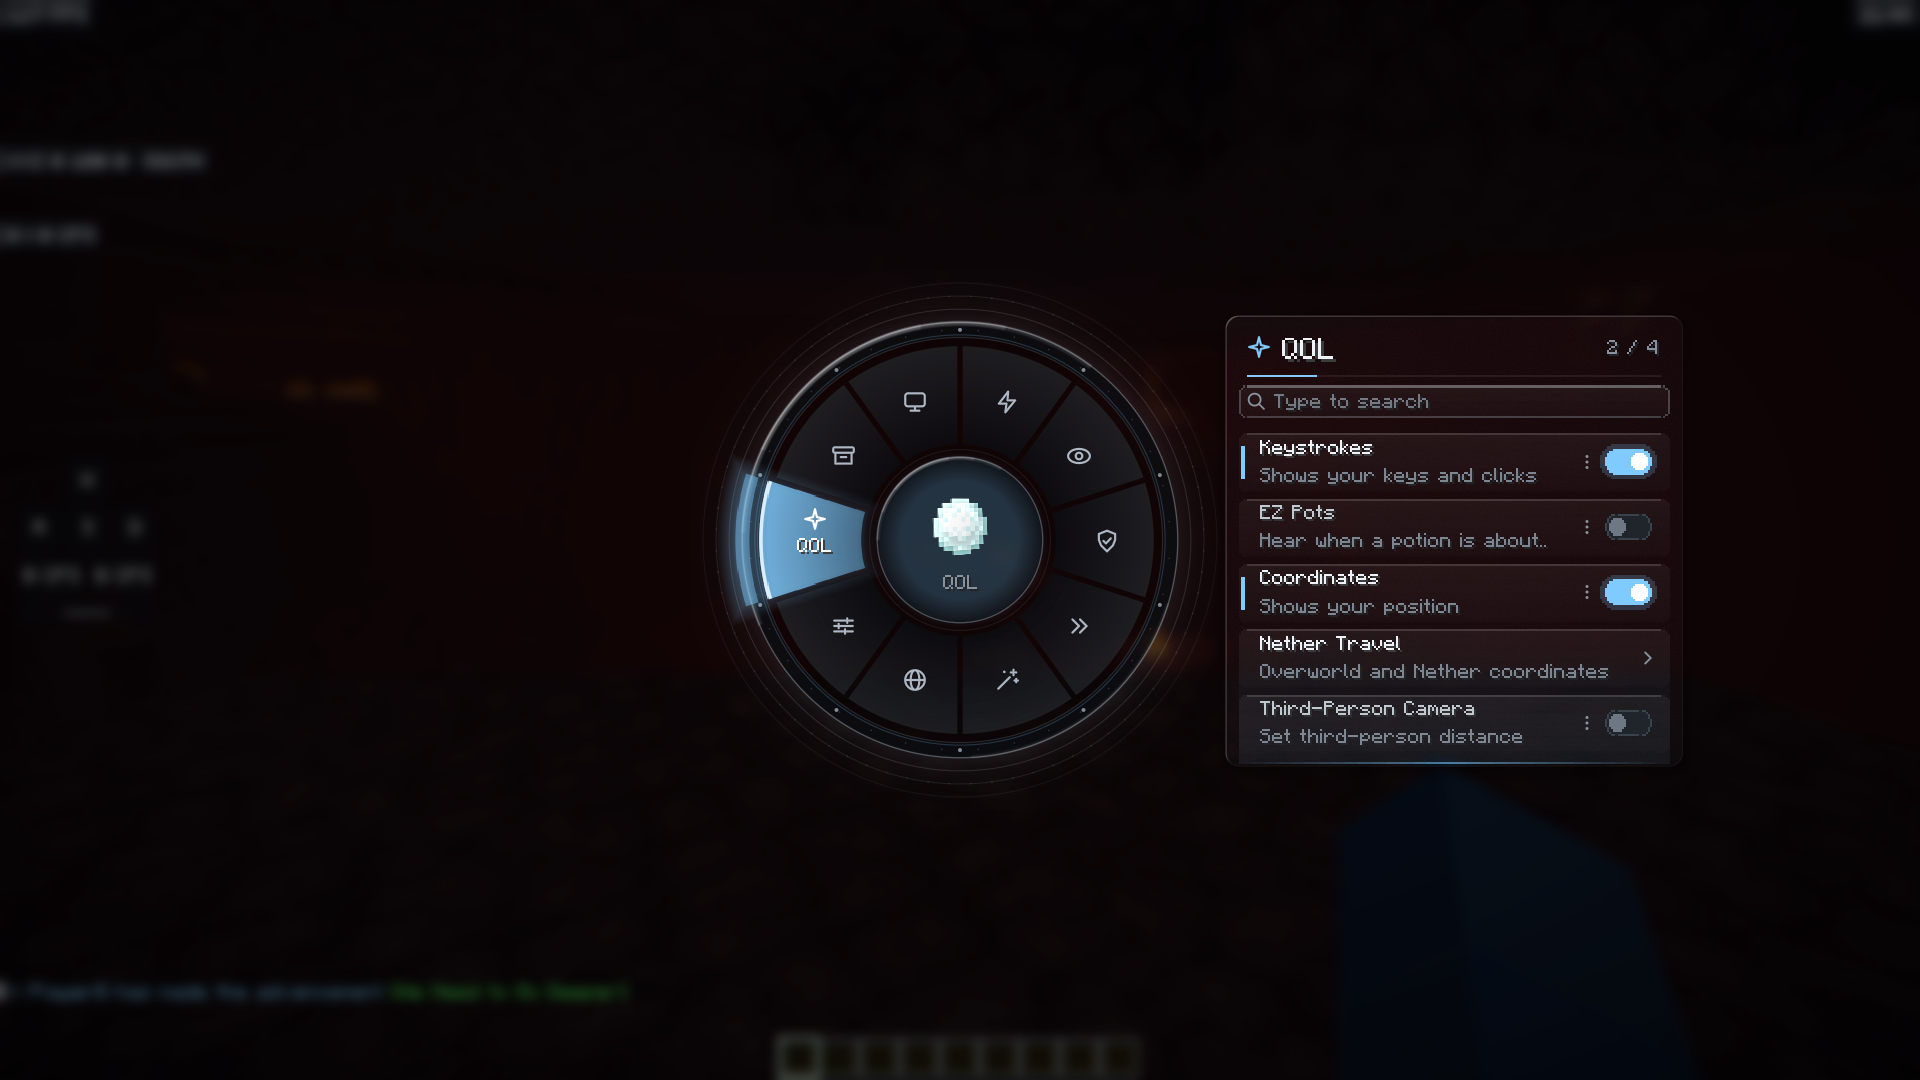
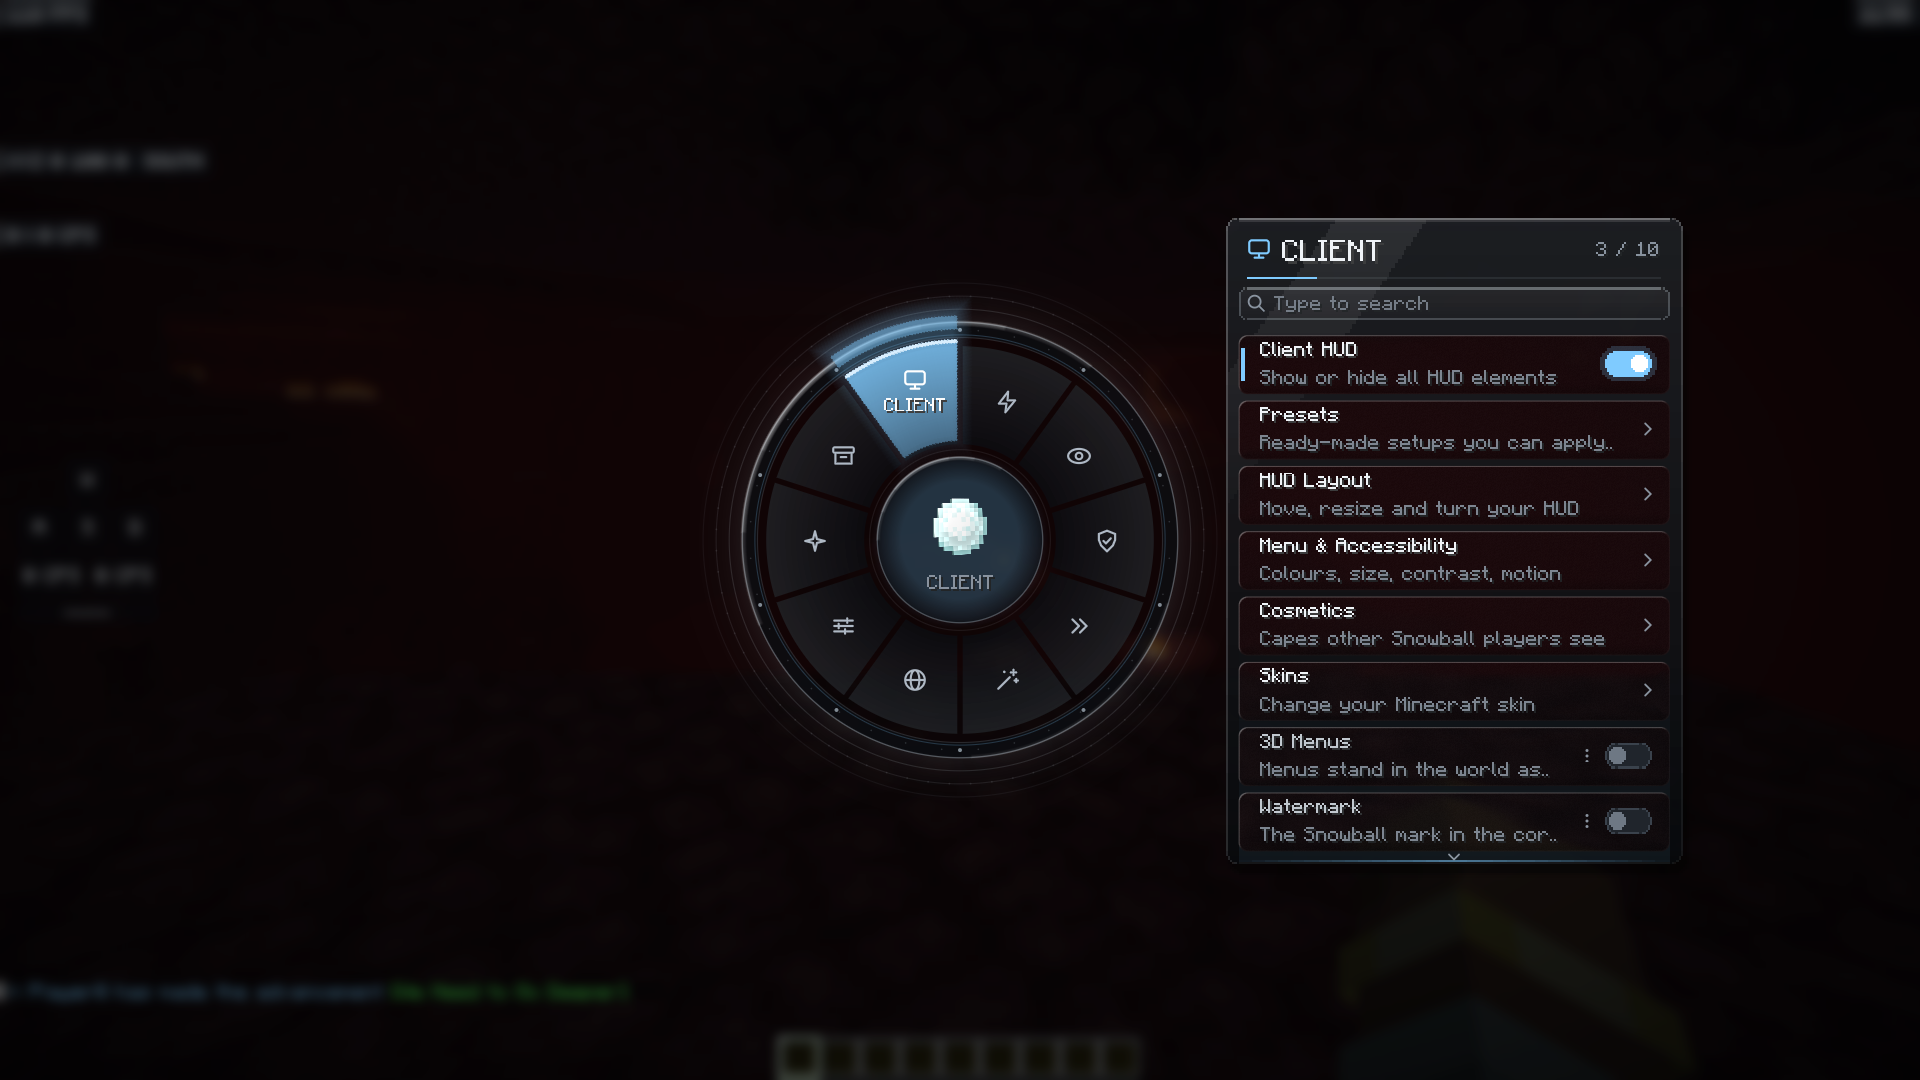
Glass on the module cards, not the list
The wheel menu's side list, and every other panel, is back to the look
it had before real glass. Each module row is now its own pane of glass
(Glass.card), after the dark see-through cards in the user's references.
The flat card stays where glass is off or cannot be drawn.

diff --git a/client/src/main/java/dev/snowballclient/client/gui/Glass.java b/client/src/main/java/dev/snowballclient/client/gui/Glass.java
@@ -38,15 +38,6 @@ public final class Glass {
 	/** A main surface whose body is {@code bodyOpacity} solid, for panels that sit over something worth seeing. */
 	public static void panel(Canvas c, Theme t, int x, int y, int w, int h, int radius, float alpha, float bodyOpacity) {
 		if (w <= 0 || h <= 0 || alpha <= 0.01f) return;
-		if (t.glass() && c.drawsGlass(t.menuGlassQuality())) {
-			// Real Snowglass: the world behind, blurred, bent at the rim and tinted in the panel colour.
-			// The 3D Menus thickness, the menu colour's glow and the lean's light stay as they were.
-			slab(c, t, x, y, w, h, radius, alpha);
-			c.glass(new GlassPanel(x, y, w, h, radius, t.surface(1f), t.glassLevel(), t.menuGlassQuality(), alpha, Depth.shadows(), false));
-			if (t.liquid()) accentGlow(c, t, x, y, w, h, radius, alpha);
-			shade(c, x, y, w, h, radius, alpha);
-			return;
-		}
 		if (!t.glass()) {
 			if (Depth.active()) shadow(c, x, y, w, h, radius, alpha, 0.44f);
 			else GuiDraw.roundedRect(c, x + 2, y + 4, w, h, radius + 1, scaleAlpha(0x70000000, alpha));
@@ -102,6 +93,19 @@ public final class Glass {
 		int edgeTop = scaleAlpha(Theme.withAlpha(WHITE, 0.09f + 0.12f * hover + (t.liquid() ? 0.05f * lightOn(0f, -1f) : 0f)), alpha);
 		c.fill(x + radius, y, x + w - radius, y + 1, edgeTop);
 		c.fill(x + radius, y + h - 1, x + w - radius, y + h, scaleAlpha(0x1A000000, alpha));
+	}
+
+	/**
+	 * A module's card in a list: real glass where the canvas can draw it, each card its own pane of the
+	 * world behind, blurred and tinted in the panel colour; the flat card {@link #chip} draws otherwise.
+	 */
+	public static void card(Canvas c, Theme t, int x, int y, int w, int h, int radius, float alpha) {
+		if (w <= 0 || h <= 0 || alpha <= 0.01f) return;
+		if (t.glass() && c.drawsGlass(t.menuGlassQuality())) {
+			c.glass(new GlassPanel(x, y, w, h, radius, t.surface(1f), t.glassLevel(), t.menuGlassQuality(), alpha, false, false));
+			return;
+		}
+		chip(c, t, x, y, w, h, radius, 0f, alpha);
 	}
 
 	/**

diff --git a/client/src/main/java/dev/snowballclient/client/gui/RadialMenuView.java b/client/src/main/java/dev/snowballclient/client/gui/RadialMenuView.java
@@ -550,7 +550,7 @@ public final class RadialMenuView extends View {
 	}
 
 	private void drawRowBackground(Canvas c, int index, int rx, int y, int rw, float alpha) {
-		Glass.chip(c, theme, rx, y, rw, ROW_H - 3, 4, 0f, alpha);
+		Glass.card(c, theme, rx, y, rw, ROW_H - 3, 4, alpha);
 	}
 
 	private void drawRow(Canvas c, Module m, int index, int rx, int y, int rw, float alpha) {

diff --git a/docs/ui-revamp/PROGRESS.md b/docs/ui-revamp/PROGRESS.md
@@ -11,6 +11,16 @@ The plan was approved on 2026-11-01 with the recommended answers to Q1–Q8 (PLA
 - 1.10.0's `smooth_font` (modules.json) carries over: anyone who had it on gets Inter (`InterfaceSettings.migrateSettings`).
 - The "Inter replaces Nunito" notes under M1 still describe the smooth font; it is just not the default any more.
 
+**Glass on the modules, not the list, decided 2026-11-01 (user):** "make the modules glass not the list, like revert it back".
+- Their three references (TikTok, @gingyninja) are crystal-PvP gameplay with no menu on screen. The look taken from them is the now-playing card in their HUD: a dark, see-through rounded card in Minecraft's font.
+- `Glass.panel` no longer draws real glass. Every panel (the wheel's side list, settings pages, `PanelView` pages, colour picker, waypoints, notifications) is back to the look it had before M2.
+- New `Glass.card`: each module row in the wheel's side list is its own pane of real glass, in the panel colour, at the Transparency level and menu glass quality. With glass off, or on a canvas that cannot draw it, the row is the old flat card (`Glass.chip`).
+- Unchanged: the HUD glass backgrounds (M2) and the glass dropdown popover and tooltip (M3).
+- **Verified:**
+  - `./gradlew build` passes: 233 unit tests per version, 0 failures. `-p legacy build` passes, and `check-generated.mjs` is clean.
+  - `-Ponly=snowglass` passes on 26.2 and 1.21.11 (OpenGL). The menu screenshots were looked at: glass cards on the old list panel over snow, village and night, and with the 3D lean.
+- **Not verified:** the cards at GUI scales other than 2, and with the Lite glass quality.
+
 ### M3: what changed
 
 - **`gui/snowglass/Controls`** (shared; draws on any canvas):
